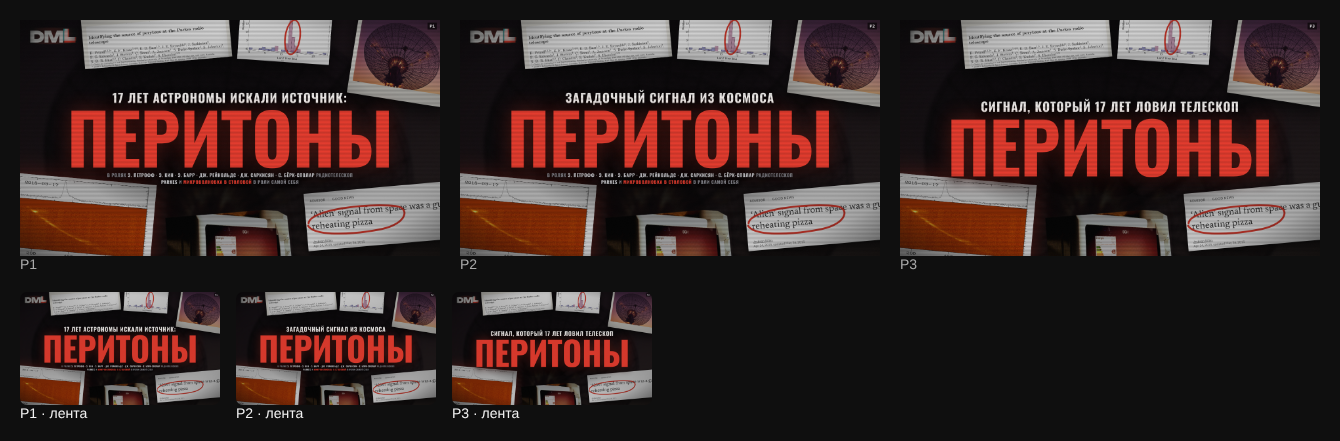
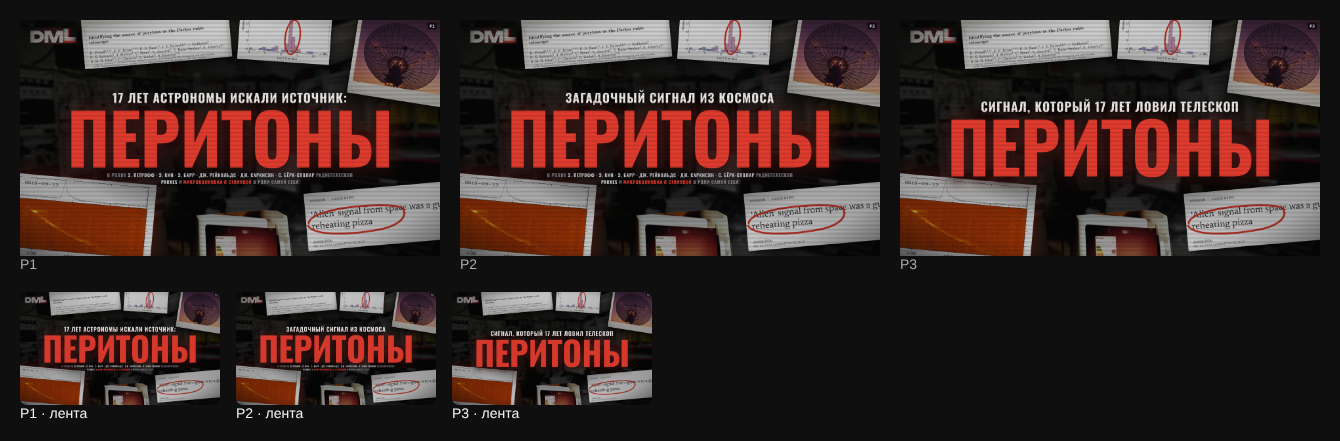
Перитоны: фон превью — пульт управления Parkes

diff --git a/episodes/2026-10-27_perytons/thumbs/k4.html b/episodes/2026-10-27_perytons/thumbs/k4.html
@@ -4,7 +4,7 @@
 :root{--red:#E5392B}
 html,body{margin:0;background:#000}
 .t{position:relative;width:1280px;height:720px;overflow:hidden;background:#060607;color:#fff}
-.bg{position:absolute;inset:-20px;background:url(../source-media/real/parkes_csiro-4350_moon.jpg) center 58%/cover;filter:blur(5px) brightness(.22) saturate(.7)}
+.bg{position:absolute;inset:-20px;background:url(../source-media/real/parkes_control-room_shaw.jpg) center 45%/cover;filter:blur(3px) brightness(.42) saturate(.75) contrast(1.1)}
 .dim{position:absolute;inset:0;background:radial-gradient(ellipse 62% 48% at 50% 50%,rgba(0,0,0,.78) 0%,rgba(0,0,0,.5) 55%,rgba(0,0,0,0) 100%);z-index:6}
 .c{position:absolute;box-shadow:0 26px 50px rgba(0,0,0,.75),0 3px 8px rgba(0,0,0,.5);z-index:4}
 .c1{left:190px;top:-44px;width:450px;height:175px;transform:rotate(-5deg);background:#f3f1ea url(../source-media/real/petroff2015_title.png) no-repeat 14px 46px/425px auto}

diff --git a/episodes/2026-10-27_perytons/source-media/real/CATALOG.md b/episodes/2026-10-27_perytons/source-media/real/CATALOG.md
@@ -5,6 +5,7 @@
 | parkes_csiro-4350_moon.jpg | Parkes на закате с Луной | https://commons.wikimedia.org/wiki/File:CSIRO_ScienceImage_4350_CSIROs_Parkes_Radio_Telescope_with_moon_in_the_background.jpg (оригинал: scienceimage.csiro.au/image/4350) | CSIRO | CC BY 3.0 | 1920×2396, 1,1 МБ | превью A1 |
 | parkes_slater_low-angle.jpg | тарелка снизу, фокальная кабина | https://commons.wikimedia.org/wiki/File:Parkes_Radio_Telescope_(CSIRO)_(cropped).jpg (Flickr pikerslanefarm/3447750033) | Amanda Slater | CC BY-SA 2.0 | 1920×939, 0,4 МБ | превью A2 |
 | parkes_west_09.jpg | тарелка и башня днём | https://commons.wikimedia.org/wiki/File:Parkes_Radio_Telescope_09.jpg | Stephen West (Diceman) | CC BY-SA 3.0 | 1920×2077, 1,1 МБ | превью A3 |
+| parkes_control-room_shaw.jpg | пульт управления Parkes (2019) | https://commons.wikimedia.org/wiki/File:CSIRO_Parkes_radio_telescope_control_room.jpg | Benjamin Shaw | CC BY-SA 4.0 | 843×474, 0,08 МБ | фон превью P1–P3 |
 | unsplash_rARPAgGkTMk_ye.jpg | радиотелескоп и Млечный Путь (НЕ Parkes: Миюнь, Пекин) | https://unsplash.com/photos/rARPAgGkTMk | Zhenyu Ye (@fantastic_leaf) | Unsplash License | 2400×4267, 3,8 МБ | превью U1 |
 | unsplash_3YAIvBNlZM4_widua.jpg | радиотелескоп Штоккерт 1957 и звёзды (НЕ Parkes: Бад-Мюнстерайфель) | https://unsplash.com/photos/3YAIvBNlZM4 | Stephan Widua (@stewi) | Unsplash License | 2400×1600, 1,2 МБ | превью U2 |
 | unsplash_p9RU1DWwasQ_microwave-washer.jpg | микроволновка BGH на стиральной машине | https://unsplash.com/photos/p9RU1DWwasQ | Ruben Mavarez (@justalifein) | Unsplash License | 2400×3277, 1,9 МБ | превью K1–K3 (вырезка `cut_microwave_bgh.png`) |
@@ -16,6 +17,6 @@
 | newdaily_2015-04-14_headline.png, newdaily_logo.png | заголовок «'Alien' signal from space was a guy reheating pizza» | https://thenewdaily.com.au/news/2015/04/14/alien-signal-space-just-scientist-reheating-pizza | The New Daily, Jackson Stiles | скриншот СМИ (цитирование); кнопка SHARE закрашена | — | превью K3; ролик |
 
 Unsplash-фото — не Parkes: на превью без подписи «PARKES», в ролике Parkes показываем только настоящими фото Parkes.
-Атрибуция в описании ролика: «Фото: CSIRO (CC BY 3.0); Amanda Slater (CC BY-SA 2.0); Stephen West (CC BY-SA 3.0) — Wikimedia Commons».
+Атрибуция в описании ролика: «Фото: CSIRO (CC BY 3.0); Amanda Slater (CC BY-SA 2.0); Stephen West (CC BY-SA 3.0); Benjamin Shaw (CC BY-SA 4.0) — Wikimedia Commons».
 Скачано 27.10.2026 на Маке (curl) после ОК пользователя; Unsplash — по ссылкам пользователя, через images.unsplash.com (плагин Unsplash требует подтвердить email аккаунта).
 Фото Unsplash: Zhenyu Ye, Stephan Widua (Unsplash License).
